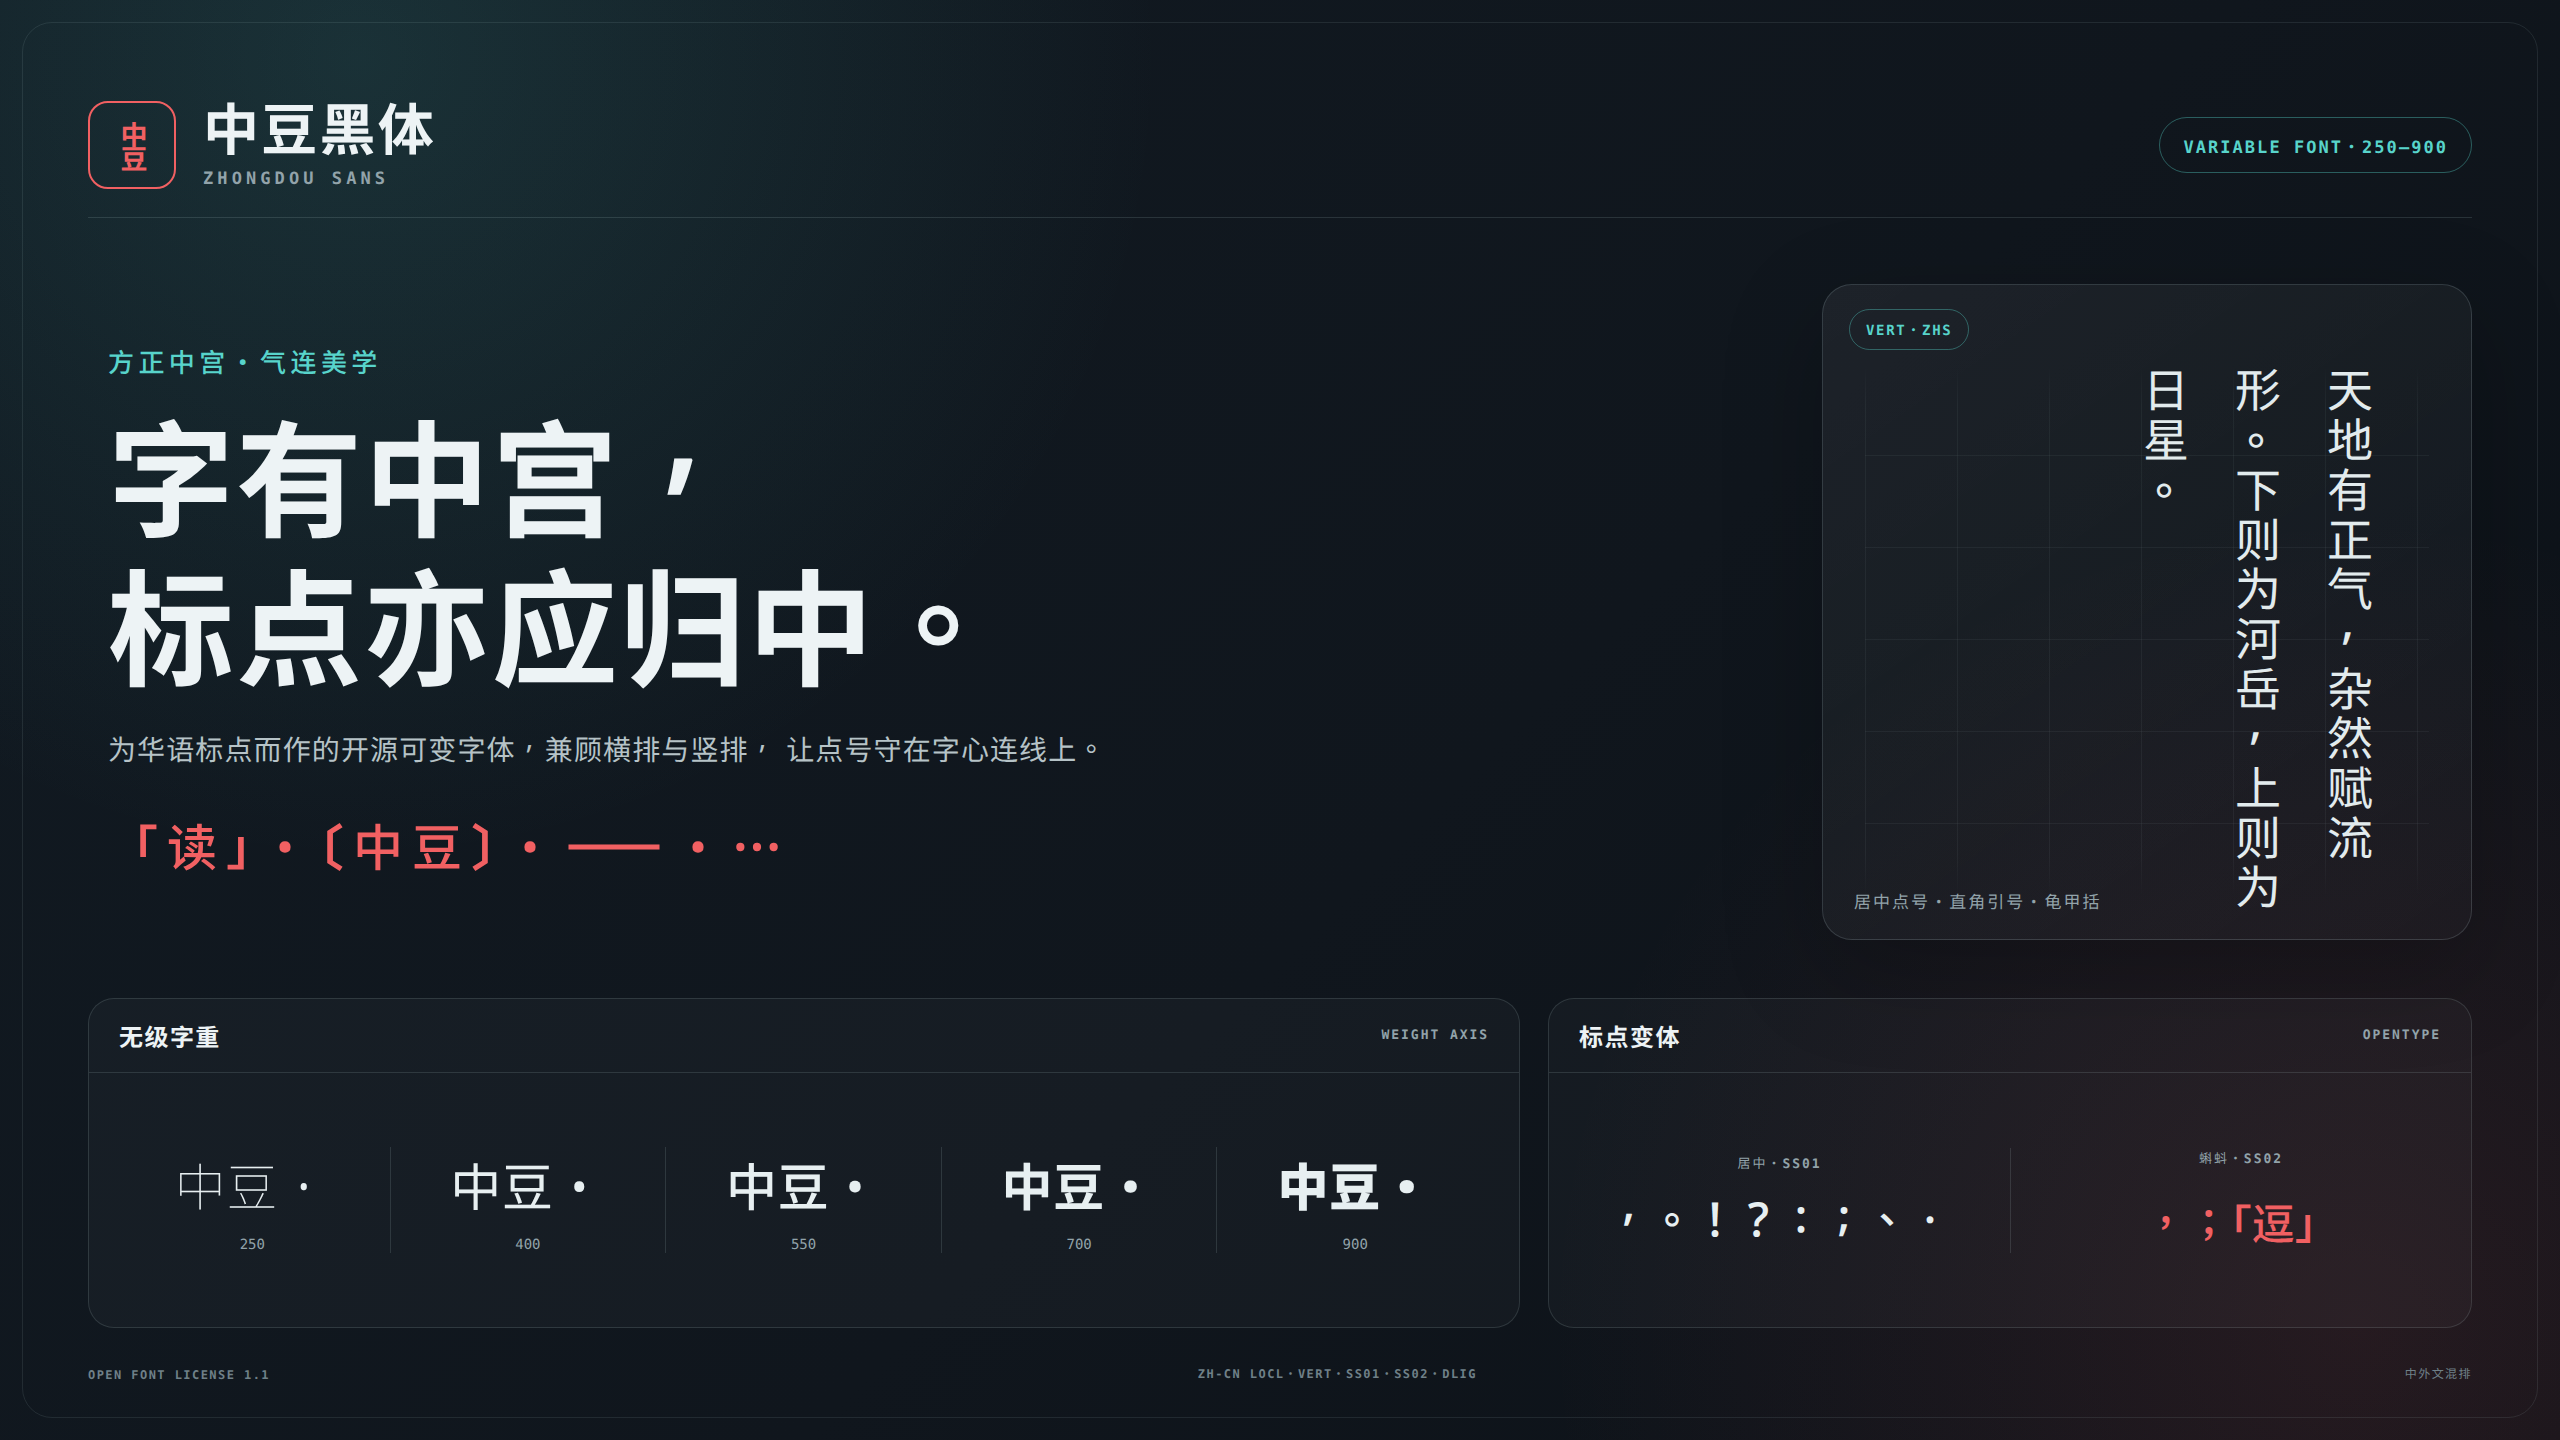
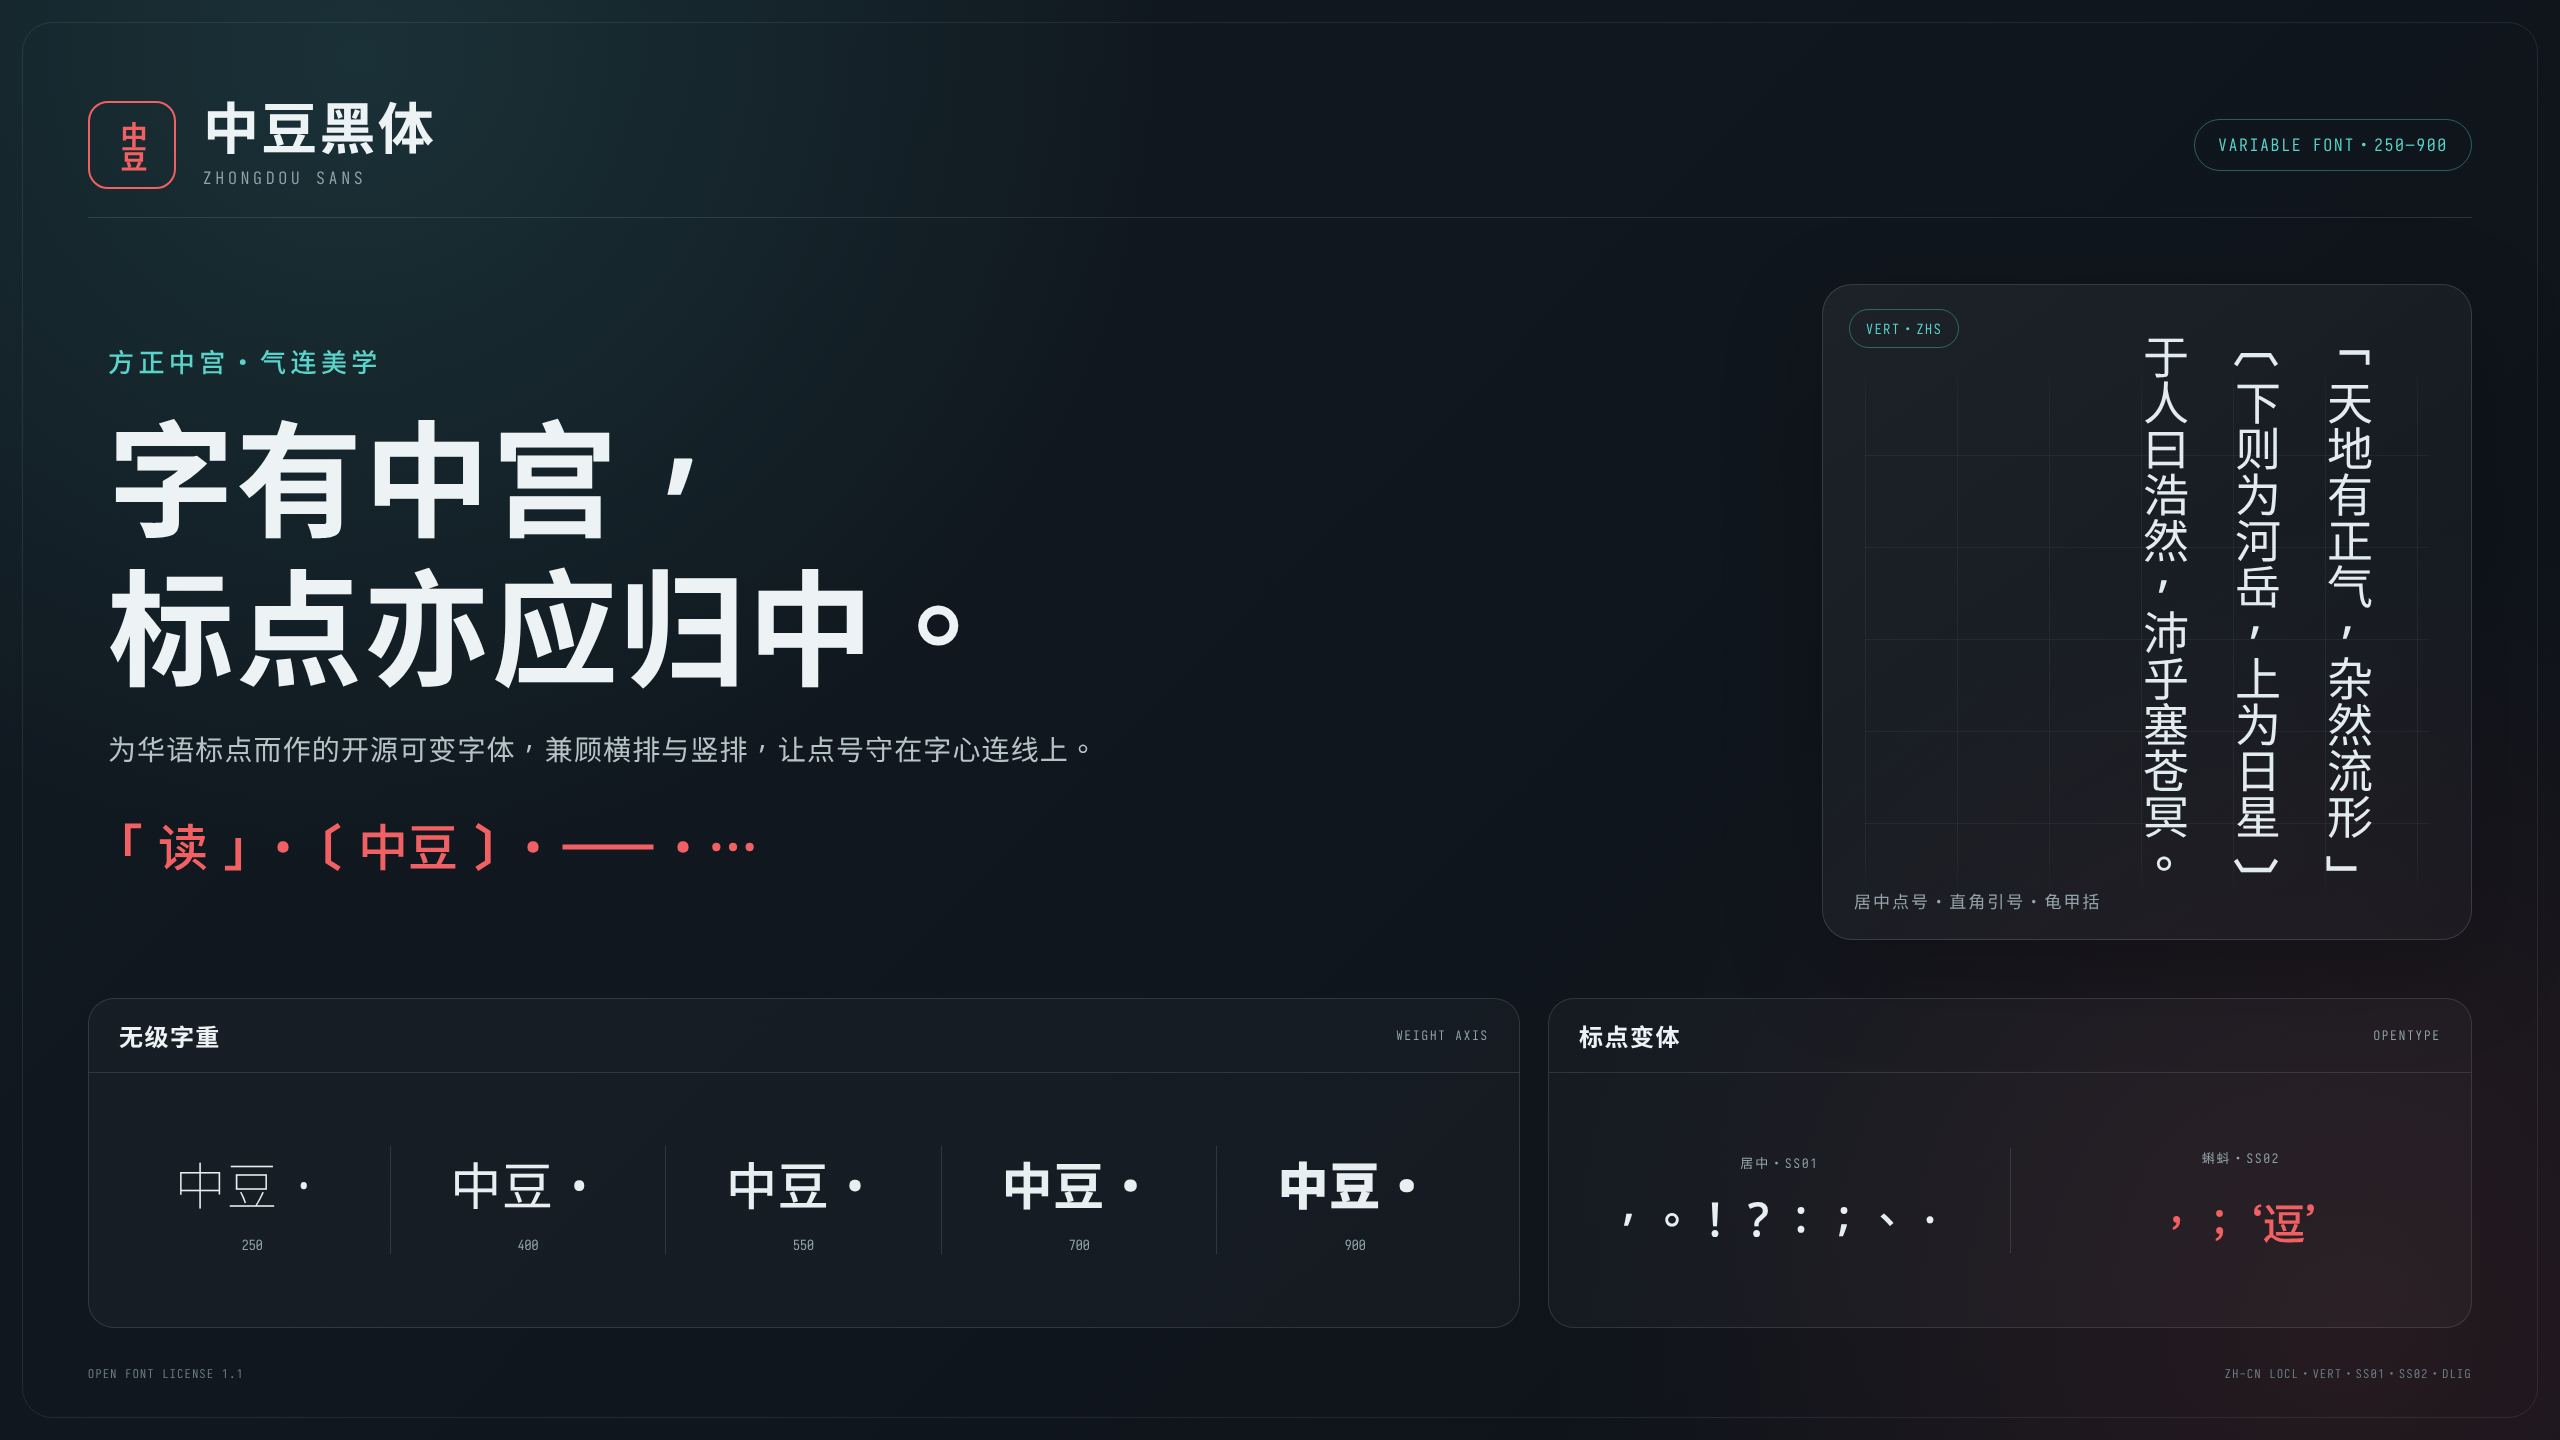
Center bracket glyphs and refine demo

diff --git a/demo/index.html b/demo/index.html
@@ -23,21 +23,14 @@
         <div class="hero-copy">
           <p class="kicker">方正中宫・气连美学</p>
           <h2>字有中宫，<br />标点亦应归中。</h2>
-          <p class="lede">
-            为华语标点而作的开源可变字体，兼顾横排与竖排，
-            让点号守在字心连线上。
-          </p>
-          <div class="symbol-line" aria-label="大挪移标点示例">
-            「读」・〔中豆〕・⸺・⋯
-          </div>
+          <p class="lede">为华语标点而作的开源可变字体，兼顾横排与竖排，让点号守在字心连线上。</p>
+          <div class="symbol-line" aria-label="大挪移标点示例">「读」・〔中豆〕・⸺・⋯</div>
         </div>
 
         <div class="vertical-card">
           <div class="card-label">VERT・ZHS</div>
           <div class="vertical-grid" aria-hidden="true"></div>
-          <p class="vertical-copy">
-            天地有正气，杂然赋流形。下则为河岳，上则为日星。
-          </p>
+          <p class="vertical-copy">「天地有正气，杂然流形」<br />〔下则为河岳，上为日星〕<br />于人曰浩然，沛乎塞苍冥。</p>
           <div class="vertical-note">居中点号・直角引号・龟甲括</div>
         </div>
       </section>
@@ -69,7 +62,7 @@
             </div>
             <div>
               <small>蝌蚪・SS02</small>
-              <p class="tadpole">，；「逗」</p>
+              <p class="tadpole">，；‘逗’</p>
             </div>
           </div>
         </article>
@@ -78,8 +71,17 @@
       <footer>
         <span>OPEN FONT LICENSE 1.1</span>
         <span>ZH-CN LOCL・VERT・SS01・SS02・DLIG</span>
-        <span>中外文混排</span>
       </footer>
     </main>
+    <script>
+      const demo = document.querySelector("#demo");
+      const fitDemo = () => {
+        const scale = Math.min(window.innerWidth / 2560, window.innerHeight / 1440);
+        demo.style.transform = `translate(-50%, -50%) scale(${scale})`;
+      };
+
+      fitDemo();
+      window.addEventListener("resize", fitDemo);
+    </script>
   </body>
 </html>

diff --git a/demo/style.css b/demo/style.css
@@ -24,8 +24,8 @@
 
 html,
 body {
-  width: 2560px;
-  height: 1440px;
+  width: 100%;
+  height: 100%;
   margin: 0;
   overflow: hidden;
   background: var(--paper-deep);
@@ -39,11 +39,14 @@ body {
 }
 
 #demo {
-  position: relative;
+  position: fixed;
+  top: 50%;
+  left: 50%;
   width: 2560px;
   height: 1440px;
   padding: 72px 88px 58px;
   overflow: hidden;
+  transform-origin: center;
   background:
     radial-gradient(circle at 14% 4%, rgba(88, 212, 203, 0.13), transparent 31%),
     radial-gradient(circle at 92% 92%, rgba(241, 96, 98, 0.11), transparent 30%),
@@ -183,7 +186,6 @@ h2 {
   color: var(--red);
   font-size: 50px;
   font-weight: 560;
-  letter-spacing: 0.18em;
 }
 
 .vertical-card {
@@ -217,14 +219,14 @@ h2 {
 
 .vertical-copy {
   position: absolute;
-  top: 82px;
+  top: 0;
   right: 77px;
-  height: 590px;
+  height: 650px;
   color: #e2ebed;
   font-size: 46px;
   font-weight: 430;
-  letter-spacing: 0.08em;
   line-height: 2;
+  text-align: center;
   writing-mode: vertical-rl;
   text-orientation: mixed;
 }

diff --git a/tools/build_font.py b/tools/build_font.py
@@ -10,6 +10,7 @@ import argparse
 from pathlib import Path
 
 from fontTools.ttLib import TTFont
+from fontTools.varLib.iup import iup_delta
 
 
 FAMILY_REPLACEMENTS = {
@@ -77,15 +78,16 @@ def reduce_line_gaps(font: TTFont) -> None:
 
 
 def disable_positioning_features(font: TTFont) -> None:
-    """Keep kern and vkrn registered for compatibility, but make them no-ops."""
+    """Keep spacing feature tags registered, but make them no-ops."""
+    feature_tags = {"halt", "kern", "vhal", "vkrn"}
     disabled = set()
     for record in font["GPOS"].table.FeatureList.FeatureRecord:
-        if record.FeatureTag in {"kern", "vkrn"}:
+        if record.FeatureTag in feature_tags:
             record.Feature.LookupListIndex = []
             record.Feature.LookupCount = 0
             disabled.add(record.FeatureTag)
-    if disabled != {"kern", "vkrn"}:
-        raise ValueError(f"missing positioning features: {sorted({'kern', 'vkrn'} - disabled)}")
+    if disabled != feature_tags:
+        raise ValueError(f"missing positioning features: {sorted(feature_tags - disabled)}")
 
 
 def use_zh_tw_locl_for_zh_cn(font: TTFont) -> None:
@@ -235,8 +237,74 @@ def translate_glyphs_once(
         translate_glyph(font, glyph_name, dx, dy)
 
 
+def translate_variable_glyph_once(
+    font: TTFont,
+    glyph_name: str,
+    dx: int,
+    variation_dx: tuple[int, ...],
+    before_bounds: tuple[int, int, int, int],
+    after_bounds: tuple[int, int, int, int],
+) -> None:
+    """Center a variable glyph at every master while retaining its metrics."""
+    glyph = font["glyf"][glyph_name]
+    glyph.recalcBounds(font["glyf"])
+    bounds = (glyph.xMin, glyph.yMin, glyph.xMax, glyph.yMax)
+    if bounds == after_bounds:
+        return
+    if bounds != before_bounds:
+        raise ValueError(
+            f"unexpected {glyph_name} bounds: {bounds}; expected {before_bounds}"
+        )
+
+    variations = font["gvar"].variations[glyph_name]
+    if len(variations) != len(variation_dx):
+        raise ValueError(
+            f"unexpected {glyph_name} variation count: {len(variations)}; "
+            f"expected {len(variation_dx)}"
+        )
+
+    coordinates, controls = font["glyf"]._getCoordinatesAndControls(
+        glyph_name,
+        font["hmtx"].metrics,
+        font["vmtx"].metrics,
+    )
+    outline_length = len(coordinates) - 4
+    for variation, tuple_dx in zip(variations, variation_dx, strict=True):
+        deltas = iup_delta(variation.coordinates, coordinates, controls.endPts)
+        variation.coordinates = [
+            (x + tuple_dx, y) if index < outline_length else (x, y)
+            for index, (x, y) in enumerate(deltas)
+        ]
+
+    translate_glyph(font, glyph_name, dx, 0)
+
+
+def sync_dependent_glyph_metrics(font: TTFont, translated: set[str]) -> None:
+    """Synchronize side bearings after moving outlines and their composites."""
+    affected = set(translated)
+    changed = True
+    while changed:
+        changed = False
+        for glyph_name in font.getGlyphOrder():
+            glyph = font["glyf"][glyph_name]
+            if glyph_name in affected or not glyph.isComposite():
+                continue
+            if any(component.glyphName in affected for component in glyph.components):
+                affected.add(glyph_name)
+                changed = True
+
+    vertical_origin = font["OS/2"].sTypoAscender
+    for glyph_name in affected:
+        glyph = font["glyf"][glyph_name]
+        glyph.recalcBounds(font["glyf"])
+        horizontal_advance, _ = font["hmtx"][glyph_name]
+        vertical_advance, _ = font["vmtx"][glyph_name]
+        font["hmtx"][glyph_name] = (horizontal_advance, glyph.xMin)
+        font["vmtx"][glyph_name] = (vertical_advance, vertical_origin - glyph.yMax)
+
+
 def refine_punctuation_glyphs(font: TTFont) -> None:
-    """Apply restrained optical corrections to punctuation and brackets."""
+    """Center punctuation ink in its em square without changing advances."""
     centered_marks = (
         "uni3001.uv002",
         "uni3002.uv002",
@@ -258,24 +326,23 @@ def refine_punctuation_glyphs(font: TTFont) -> None:
         (463, 338, 537, 422),
         (463, 358, 537, 442),
     )
-    translate_glyphs_once(
+    translate_variable_glyph_once(
         font,
-        ("uni3014",),
-        -20,
-        0,
         "uni3014",
+        -337,
+        (14, 30),
         (721, -91, 954, 851),
-        (701, -91, 934, 851),
+        (384, -91, 617, 851),
     )
-    translate_glyphs_once(
+    translate_variable_glyph_once(
         font,
-        ("uni300C",),
-        -20,
-        -20,
         "uni300C",
+        -312,
+        (5, 7),
         (660, 186, 965, 840),
-        (640, 166, 945, 820),
+        (348, 186, 653, 840),
     )
+    sync_dependent_glyph_metrics(font, set(centered_marks) | {"uni300C", "uni3014"})
 
 
 def rename_family(font: TTFont) -> None:

diff --git a/README.md b/README.md
@@ -57,8 +57,8 @@
 
 * 将弯引号 `‘’“”` 的半角字形直接设为 Unicode 字符映射（`cmap`）中的默认字形，不借用任何 OpenType 功能。`fwid` 可改用全角字形，`pwid` 可改用比例宽度字形；开关 `ccmp` 不会改变引号宽度。
 * 陆规（`ZHS`）在 `locl` 中复用台规（`ZHT`）的居中标点查找，使陆规文本默认使用居中标点；`vert` 则在默认语言与陆规文本中保留这些标点的居中形式，同时不改变其他地区的竖排规则。
-* 对居中点号作光学校正，并将龟甲括与直角引号稍向字面内收，使它们与汉字的视觉重心衔接得更自然。
-* 保留 `kern`、`vkrn` 功能标签以兼容应用程序，但清空其查找列表，因此字体不会自动挤压横排或竖排标点。
+* 对居中点号作光学校正，并将龟甲括与直角引号的墨迹在全部字重中移到全角字身的横向中心；由其构成的闭括号和竖排字形会同步归中，字身宽度保持不变。
+* 保留 `halt`、`vhal`、`kern`、`vkrn` 功能标签以兼容应用程序，但清空其查找列表，因此字体不会自动压缩或挤移横排、竖排标点。
 * 已修正[行高问题](https://github.com/Buernia/Zhudou-Sans/issues/7)。
 
 此外如上文所述，增加了一些标点符号。
@@ -87,10 +87,6 @@
 ## 排版功能
 
 本字体支持以下 OpenType 排版特性：
-
-* **替代半角宽度**（`halt`、`vhal`）
-
-  将所有标点符号的宽度设置为半角。
 
 * **自选连字**（`dlig`）
 
@@ -186,10 +182,11 @@
 首页样张的排版源码位于 [`demo/`](./demo/)，输出为 [`images/demo.png`](./images/demo.png)。在项目根目录运行：
 
 ```nu
-nix develop -c nu tools/render-demo.nu
+nix develop -c nur demo preview # 构建字体并在浏览器中打开 HTML 样张
+nix develop -c nur demo render  # 重新生成 images/demo.png
 ```
 
-此命令会先从原始字体生成中豆黑体，再以固定的 2560×1440 画布渲染并压缩图片。Nix flake 锁定渲染工具和备用字体的版本。拉取请求中的样张若已过时，持续集成便会报错；推送到 `main` 后，持续集成则会在样张变化时自动创建 `docs: update generated demo` 提交，不变时不会提交。
+这些任务会先从原始字体生成中豆黑体，再以固定的 2560×1440 画布渲染并压缩图片。Nix flake 锁定 Nur、渲染工具和备用字体的版本。拉取请求中的样张若已过时，持续集成便会报错；推送到 `main` 后，持续集成则会在样张变化时自动创建 `docs: update generated demo` 提交，不变时不会提交。
 
 ## 授权信息
 
